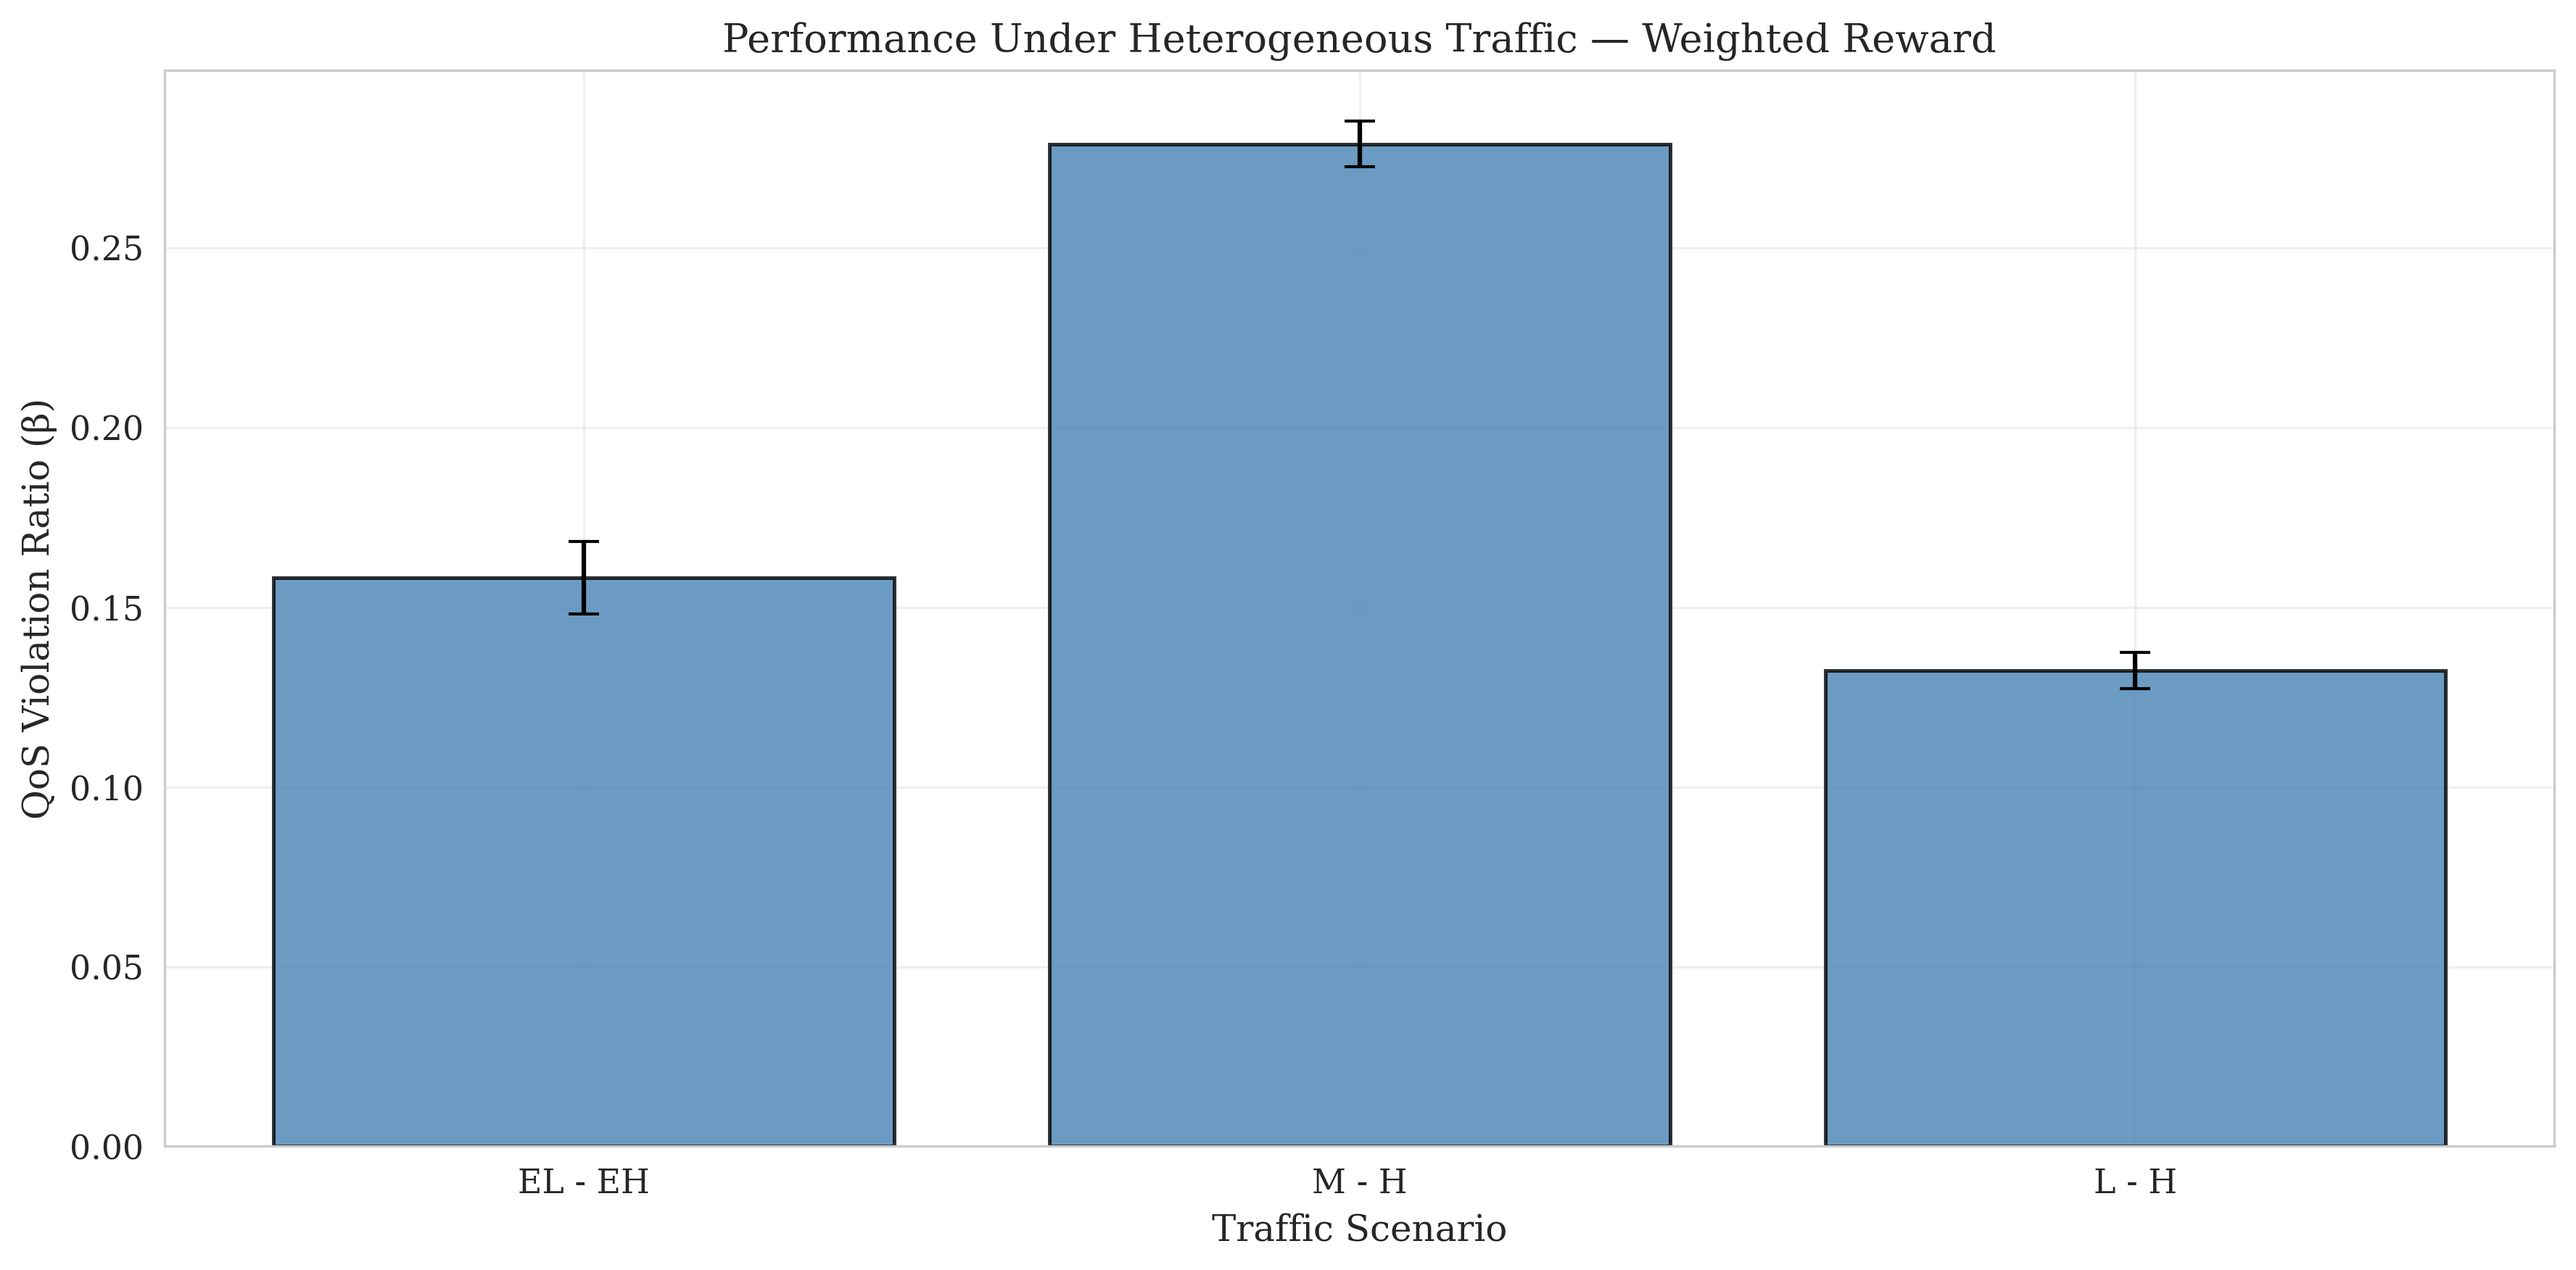
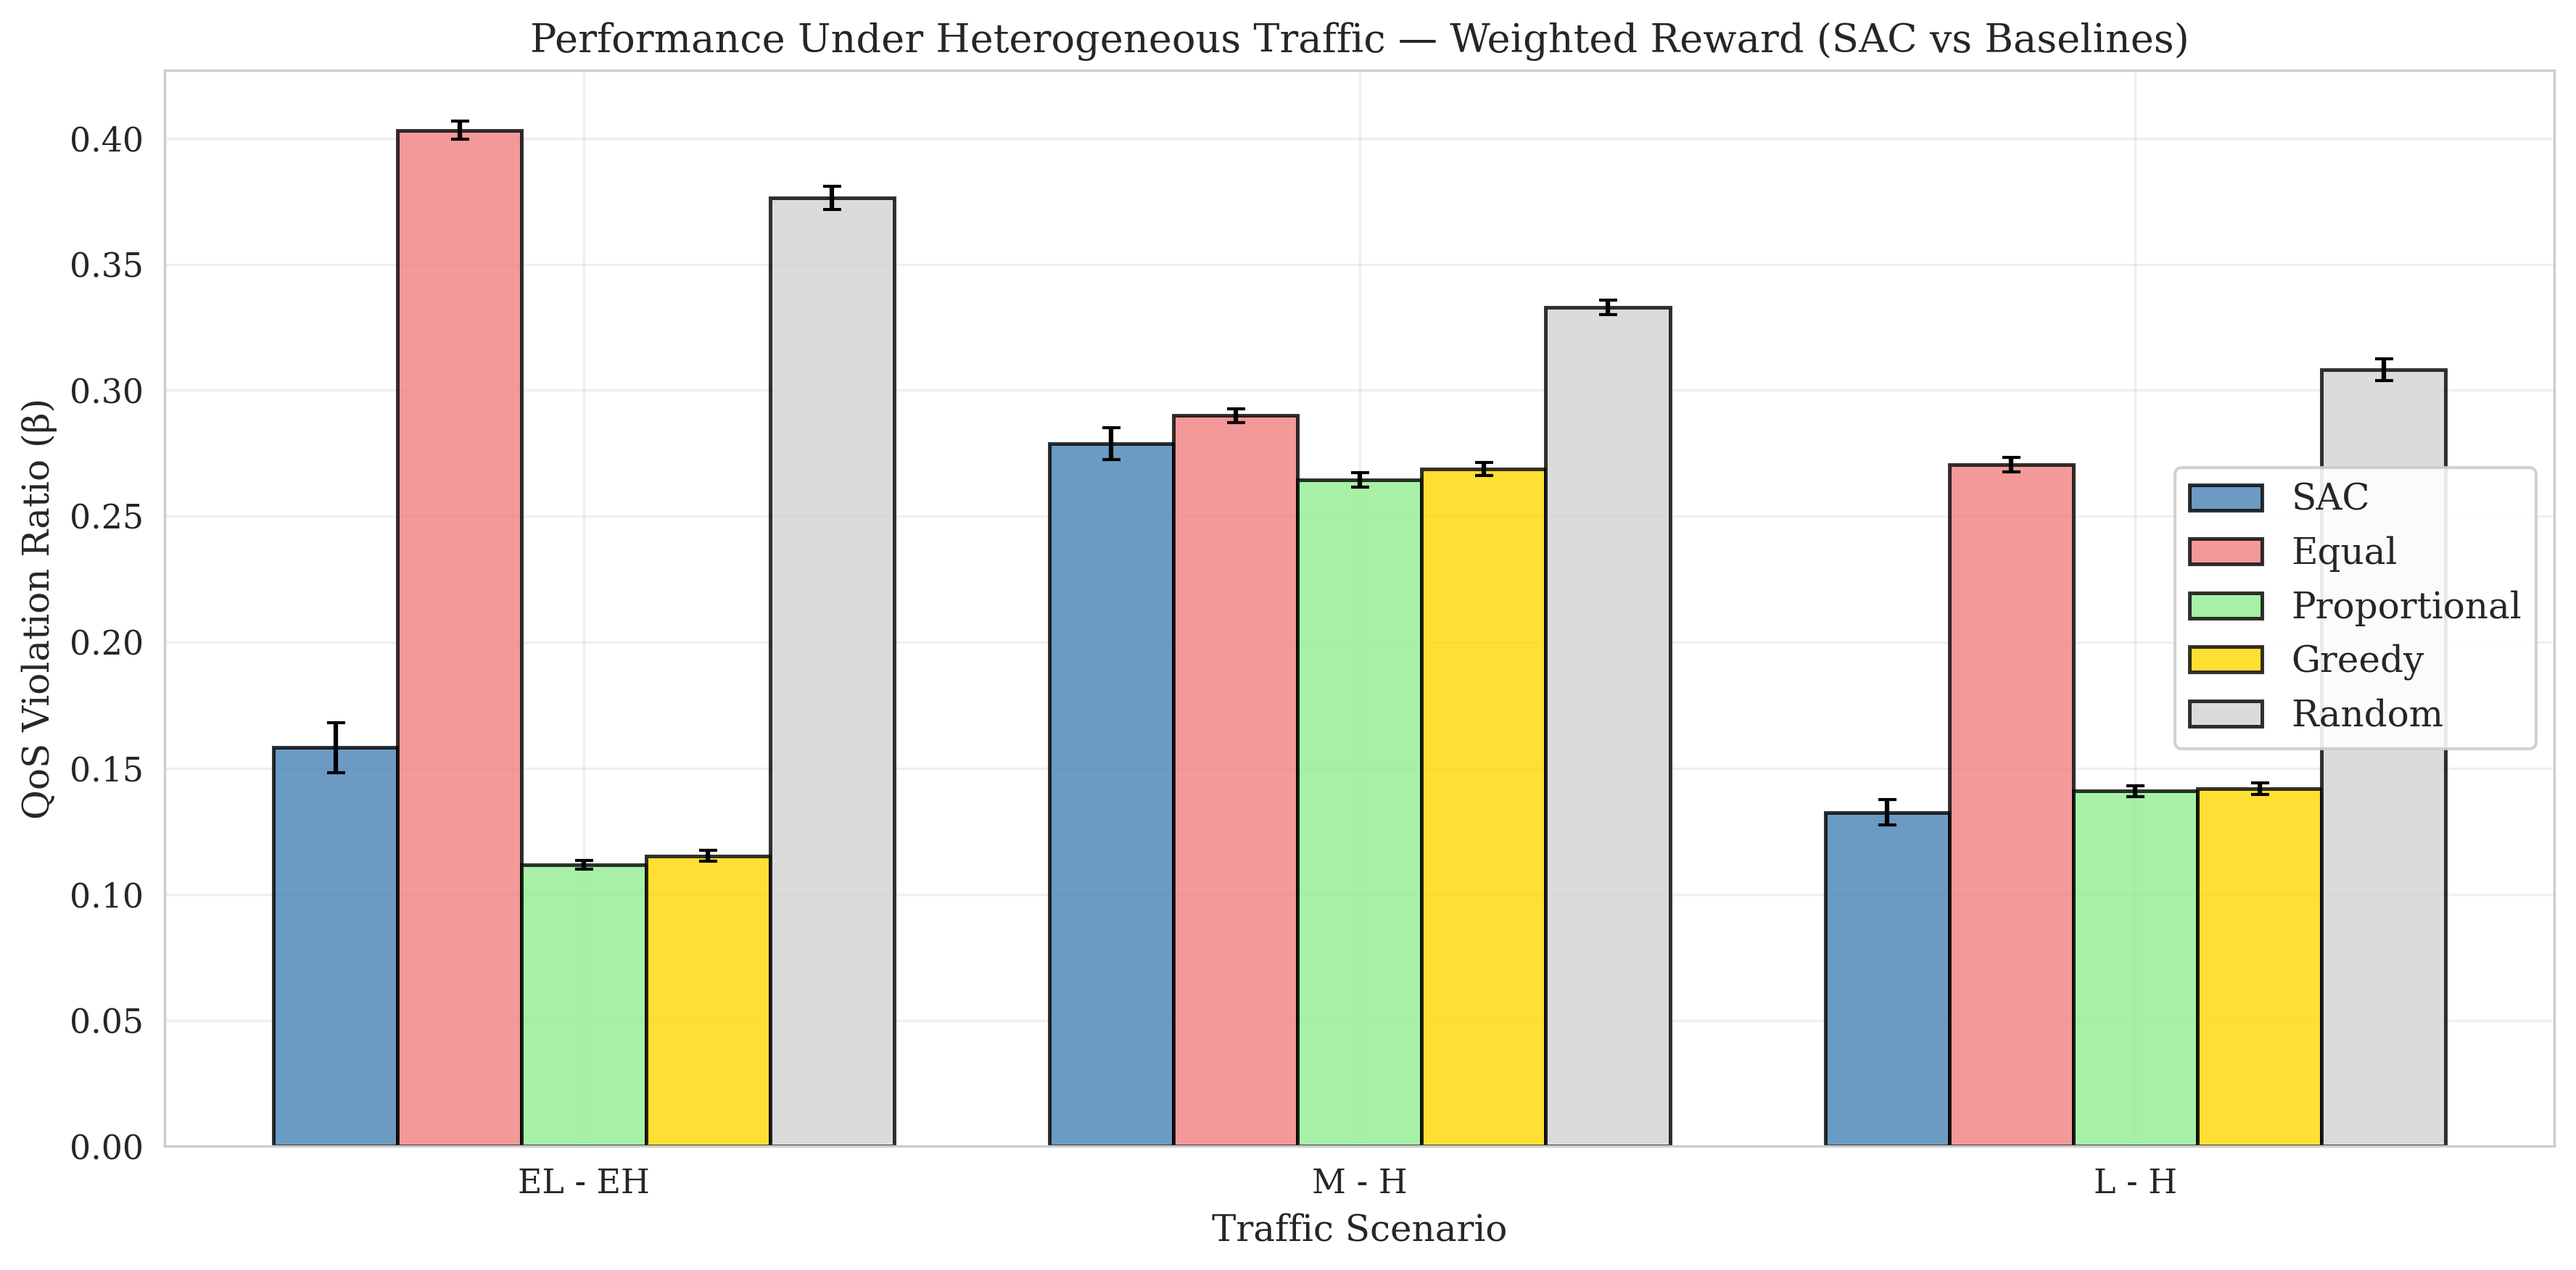
ver4.0

diff --git a/paper_figures/summary_table.tex b/paper_figures/summary_table.tex
@@ -1,0 +1,26 @@
+\begin{table*}[!t]
+\caption{Performance Summary Across Traffic Scenarios (Last 100 Episodes)}
+\label{tab:performance_summary}
+\centering
+\begin{tabular}{@{}lccc@{}}
+\toprule
+\textbf{Scenario} & \textbf{QoS Violation (β)} & \textbf{Episode Reward} & \textbf{Reward} \\
+\midrule
+Dynamic [Low, Medium, High], T=200 DTIs & 0.190 $\pm$ 0.032 & -380.78 $\pm$ 64.40 & weighted \\
+Dynamic [Extremely_Low, Low, Medium, High, Extremely_High], T=200 DTIs & 0.197 $\pm$ 0.036 & -393.25 $\pm$ 71.38 & weighted \\
+Dynamic [Extremely_Low, Low, Medium, High, Extremely_High], T=200 DTIs & 0.183 $\pm$ 0.036 & -366.20 $\pm$ 71.07 & global \\
+EL - EH & 0.158 $\pm$ 0.010 & -316.40 $\pm$ 20.02 & weighted \\
+M - H & 0.279 $\pm$ 0.006 & -557.70 $\pm$ 12.72 & weighted \\
+EL - EL & 0.010 $\pm$ 0.001 & -19.70 $\pm$ 2.36 & global \\
+L - L & 0.025 $\pm$ 0.003 & -49.65 $\pm$ 5.21 & global \\
+M - M & 0.196 $\pm$ 0.006 & -391.47 $\pm$ 11.63 & global \\
+H - H & 0.358 $\pm$ 0.012 & -715.07 $\pm$ 23.97 & global \\
+EH - EH & 0.403 $\pm$ 0.014 & -805.84 $\pm$ 27.69 & global \\
+L - H & 0.132 $\pm$ 0.005 & -264.94 $\pm$ 10.12 & weighted \\
+M - H & 0.260 $\pm$ 0.009 & -520.86 $\pm$ 18.29 & global \\
+L - H & 0.144 $\pm$ 0.008 & -287.23 $\pm$ 16.69 & global \\
+EL - EH & 0.108 $\pm$ 0.002 & -216.41 $\pm$ 3.59 & global \\
+Dynamic [Low, Medium, High], T=200 DTIs & 0.182 $\pm$ 0.033 & -363.39 $\pm$ 65.89 & global \\
+\bottomrule
+\end{tabular}
+\end{table*}

diff --git a/paper_figures/table_heterogeneous.tex b/paper_figures/table_heterogeneous.tex
@@ -1,0 +1,17 @@
+\begin{table}[!t]
+\centering
+\caption{QoS Performance Under Heterogeneous Traffic Scenarios (Last 100 Episodes)}
+\label{tab:heterogeneous_comparison}
+\begin{tabular}{lccccc}
+\toprule
+\textbf{Scenario} & \textbf{SAC} & \textbf{Equal} & \textbf{Proportional} & \textbf{Greedy} & \textbf{Random} \\
+\midrule
+EL - EH & 0.1582 $\pm$ 0.0100 & 0.4031 $\pm$ 0.0036 & 0.1117 $\pm$ 0.0017 & 0.1152 $\pm$ 0.0021 & 0.3763 $\pm$ 0.0046 \\
+M - H & 0.2788 $\pm$ 0.0064 & 0.2900 $\pm$ 0.0028 & 0.2645 $\pm$ 0.0028 & 0.2687 $\pm$ 0.0027 & 0.3329 $\pm$ 0.0030 \\
+L - H & 0.1325 $\pm$ 0.0051 & 0.2706 $\pm$ 0.0029 & 0.1410 $\pm$ 0.0021 & 0.1420 $\pm$ 0.0022 & 0.3081 $\pm$ 0.0044 \\
+M - H & 0.2604 $\pm$ 0.0091 & 0.2899 $\pm$ 0.0024 & 0.2642 $\pm$ 0.0030 & 0.2688 $\pm$ 0.0029 & 0.3328 $\pm$ 0.0028 \\
+L - H & 0.1436 $\pm$ 0.0083 & 0.2701 $\pm$ 0.0026 & 0.1411 $\pm$ 0.0021 & 0.1420 $\pm$ 0.0024 & 0.3080 $\pm$ 0.0048 \\
+EL - EH & 0.1082 $\pm$ 0.0018 & 0.4034 $\pm$ 0.0034 & 0.1120 $\pm$ 0.0016 & 0.1154 $\pm$ 0.0024 & 0.3749 $\pm$ 0.0054 \\
+\bottomrule
+\end{tabular}
+\end{table}

diff --git a/paper_figures/table_ablation_results.tex b/paper_figures/table_ablation_results.tex
@@ -1,0 +1,22 @@
+\begin{table}[!t]
+\caption{Ablation Results: Reward Formulation Comparison (Mean $\pm$ Std, Last 100 Episodes)}
+\label{tab:ablation_results}
+\centering
+\begin{tabular}{@{}llcccc@{}}
+\toprule
+\textbf{Scenario} & \textbf{Reward} & \textbf{Global $\beta$} & \textbf{$\beta_0$} & \textbf{$\beta_1$} & \textbf{JFI} \\
+\midrule
+\multirow{2}{*}{Extremely_Low - Extremely_High}
+  & weighted  & 0.1582 $\pm$ 0.0100 & 0.1262 $\pm$ 0.1240 & 0.1901 $\pm$ 0.1119 & 0.9986 \\
+  & global  & 0.1082 $\pm$ 0.0018 & 0.5659 $\pm$ 0.0913 & 0.0000 $\pm$ 0.0000 & 0.8653 \\
+\midrule
+\multirow{2}{*}{Low - High}
+  & weighted  & 0.1325 $\pm$ 0.0051 & 0.1131 $\pm$ 0.0816 & 0.1572 $\pm$ 0.0718 & 0.9994 \\
+  & global  & 0.1436 $\pm$ 0.0083 & 0.2629 $\pm$ 0.1762 & 0.0951 $\pm$ 0.0889 & 0.9897 \\
+\midrule
+\multirow{2}{*}{Medium - High}
+  & weighted  & 0.2788 $\pm$ 0.0064 & 0.2257 $\pm$ 0.2009 & 0.3445 $\pm$ 0.1498 & 0.9931 \\
+  & global  & 0.2604 $\pm$ 0.0091 & 0.4054 $\pm$ 0.1253 & 0.1543 $\pm$ 0.0840 & 0.9705 \\
+\bottomrule
+\end{tabular}
+\end{table}

diff --git a/paper_figures/table_static_homogeneous.tex b/paper_figures/table_static_homogeneous.tex
@@ -1,0 +1,16 @@
+\begin{table}[!t]
+\centering
+\caption{QoS Performance Across Static Homogeneous Traffic Profiles (Last 100 Episodes)}
+\label{tab:static_homogeneous_comparison}
+\begin{tabular}{lccccc}
+\toprule
+\textbf{Profile} & \textbf{SAC} & \textbf{Equal} & \textbf{Proportional} & \textbf{Greedy} & \textbf{Random} \\
+\midrule
+EL & 0.0098 $\pm$ 0.0012 & 0.0095 $\pm$ 0.0009 & 0.0215 $\pm$ 0.0016 & 0.1413 $\pm$ 0.0023 & 0.0989 $\pm$ 0.0033 \\
+L & 0.0248 $\pm$ 0.0026 & 0.0241 $\pm$ 0.0012 & 0.0382 $\pm$ 0.0016 & 0.1051 $\pm$ 0.0020 & 0.1480 $\pm$ 0.0031 \\
+M & 0.1957 $\pm$ 0.0058 & 0.1898 $\pm$ 0.0030 & 0.1996 $\pm$ 0.0024 & 0.2034 $\pm$ 0.0026 & 0.2778 $\pm$ 0.0028 \\
+H & 0.3575 $\pm$ 0.0120 & 0.3533 $\pm$ 0.0022 & 0.3543 $\pm$ 0.0026 & 0.3537 $\pm$ 0.0027 & 0.3713 $\pm$ 0.0026 \\
+EH & 0.4029 $\pm$ 0.0138 & 0.4835 $\pm$ 0.0030 & 0.4834 $\pm$ 0.0026 & 0.4762 $\pm$ 0.0031 & 0.4388 $\pm$ 0.0026 \\
+\bottomrule
+\end{tabular}
+\end{table}

diff --git a/paper_figures/table_dynamic_ablation.tex b/paper_figures/table_dynamic_ablation.tex
@@ -1,0 +1,18 @@
+\begin{table}[!t]
+\caption{Dynamic Traffic Ablation: Performance Across Traffic Ranges and Reward Formulations (Mean $\pm$ Std, Last 100 Episodes)}
+\label{tab:dynamic_ablation}
+\centering
+\begin{tabular}{@{}llcccc@{}}
+\toprule
+\textbf{Traffic Range} & \textbf{Reward} & \textbf{Global $\beta$} & \textbf{$\beta_0$} & \textbf{$\beta_1$} & \textbf{JFI} \\
+\midrule
+\multirow{2}{*}{[L, M, H], T=200}
+  & weighted  & 0.1904 $\pm$ 0.0322 & 0.1378 $\pm$ 0.1450 & 0.2155 $\pm$ 0.1787 & 0.9978 \\
+  & global  & 0.1817 $\pm$ 0.0329 & 0.1366 $\pm$ 0.1494 & 0.2281 $\pm$ 0.1792 & 0.9969 \\
+\midrule
+\multirow{2}{*}{[EL, L, M, H, EH], T=200}
+  & weighted  & 0.1966 $\pm$ 0.0357 & 0.1418 $\pm$ 0.1867 & 0.2166 $\pm$ 0.2171 & 0.9979 \\
+  & global  & 0.1831 $\pm$ 0.0355 & 0.1691 $\pm$ 0.1984 & 0.2095 $\pm$ 0.2524 & 0.9994 \\
+\bottomrule
+\end{tabular}
+\end{table}

diff --git a/paper_figures/table_per_slice_beta.tex b/paper_figures/table_per_slice_beta.tex
@@ -1,0 +1,15 @@
+\begin{table}[!t]
+\centering
+\caption{Per-Slice QoS Performance Under Dynamic Traffic (Final 20\% of Training)}
+\label{tab:per_slice_beta}
+\begin{tabular}{lc}
+\toprule
+\textbf{Metric} & \textbf{β (mean $\pm$ std)} \\
+\midrule
+Global & 0.1904 $\pm$ 0.0322 \\
+VoIP & 0.1044 $\pm$ 0.1049 \\
+CBR & 0.1568 $\pm$ 0.1178 \\
+Fairness (max/min) & 1.50 \\
+\bottomrule
+\end{tabular}
+\end{table}
